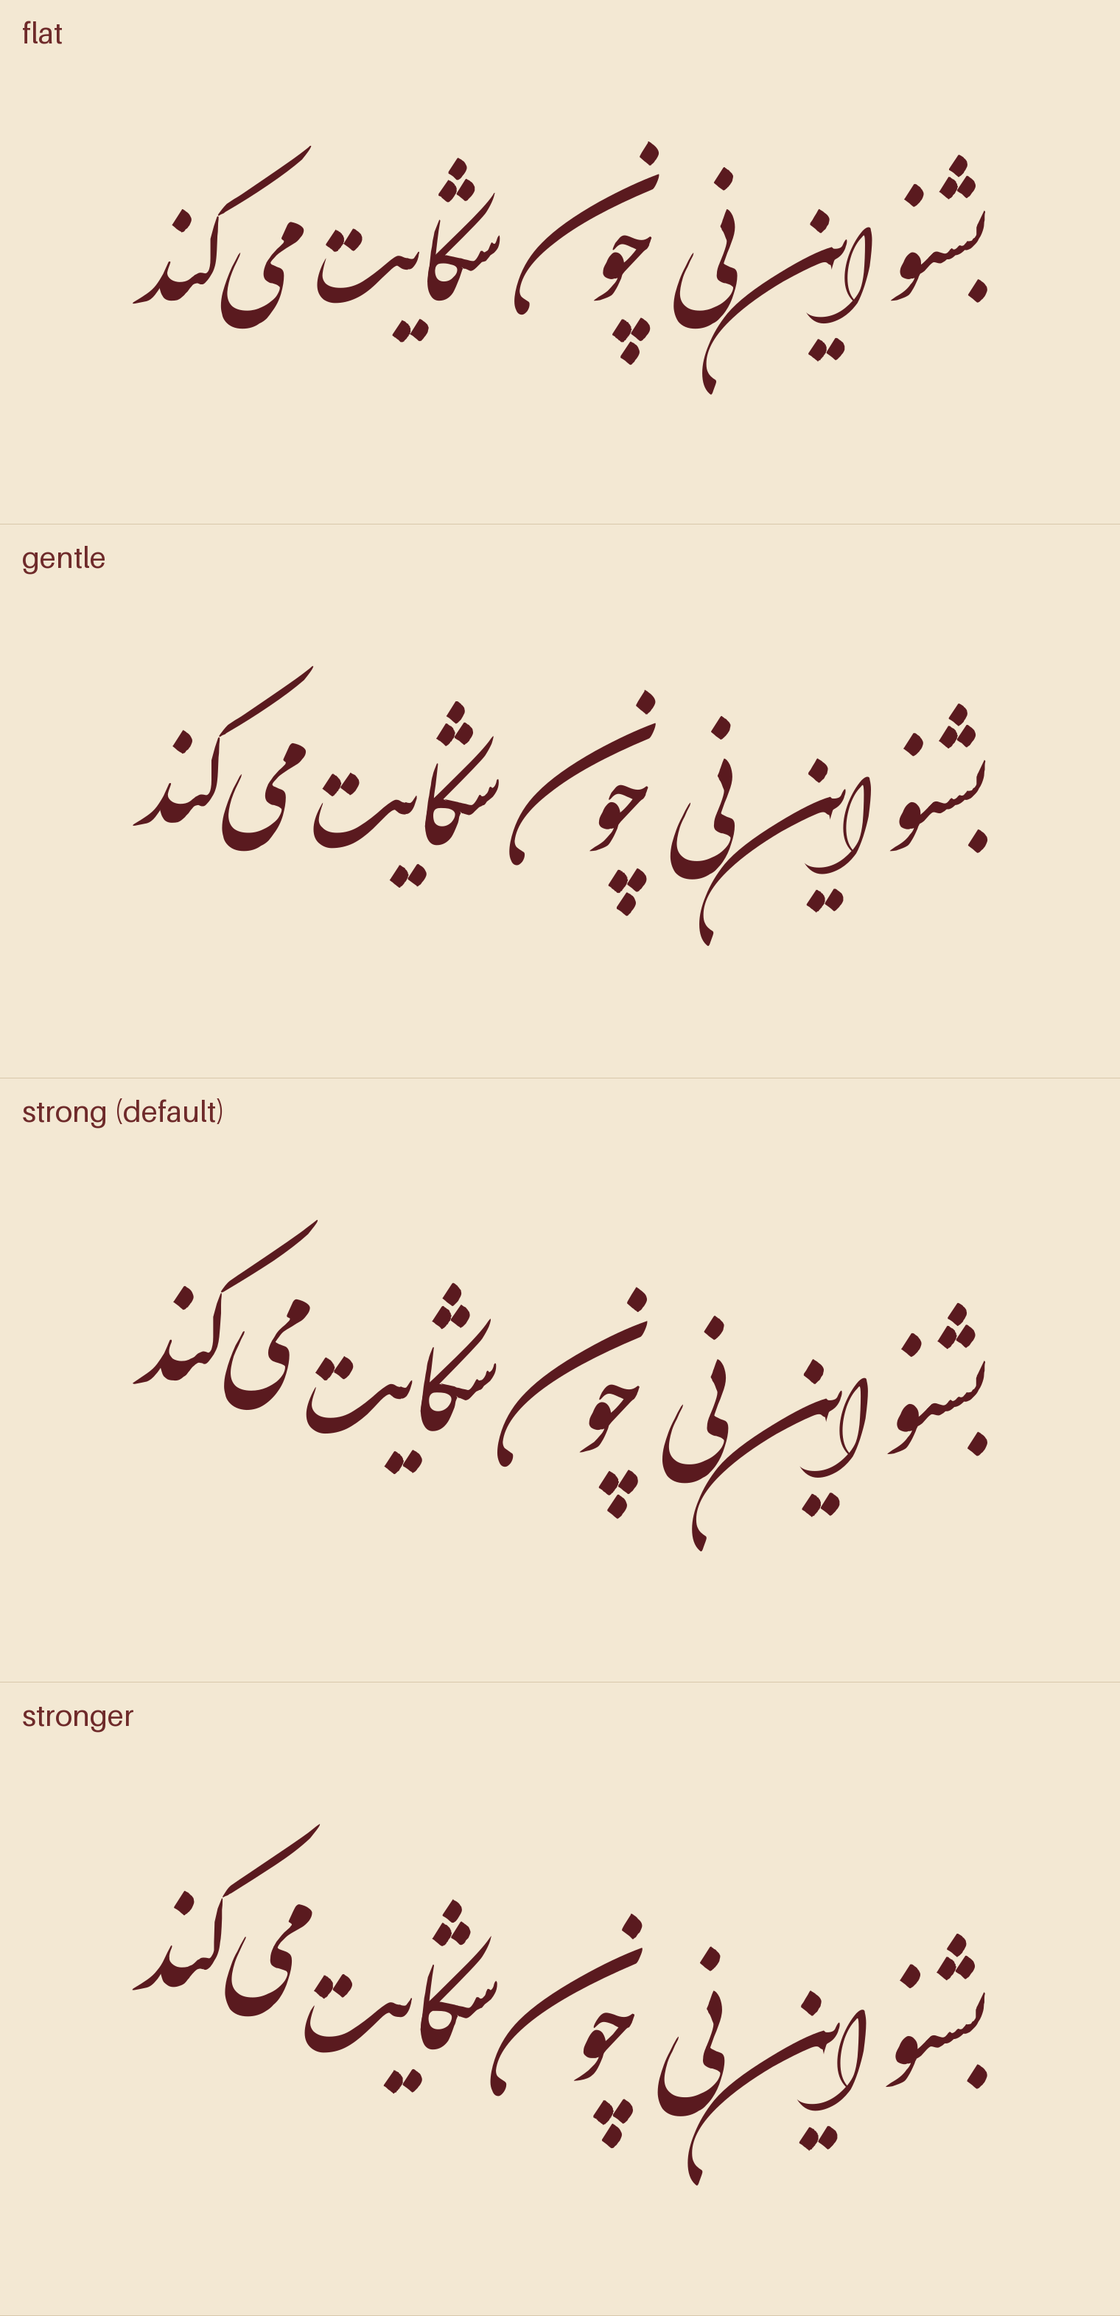
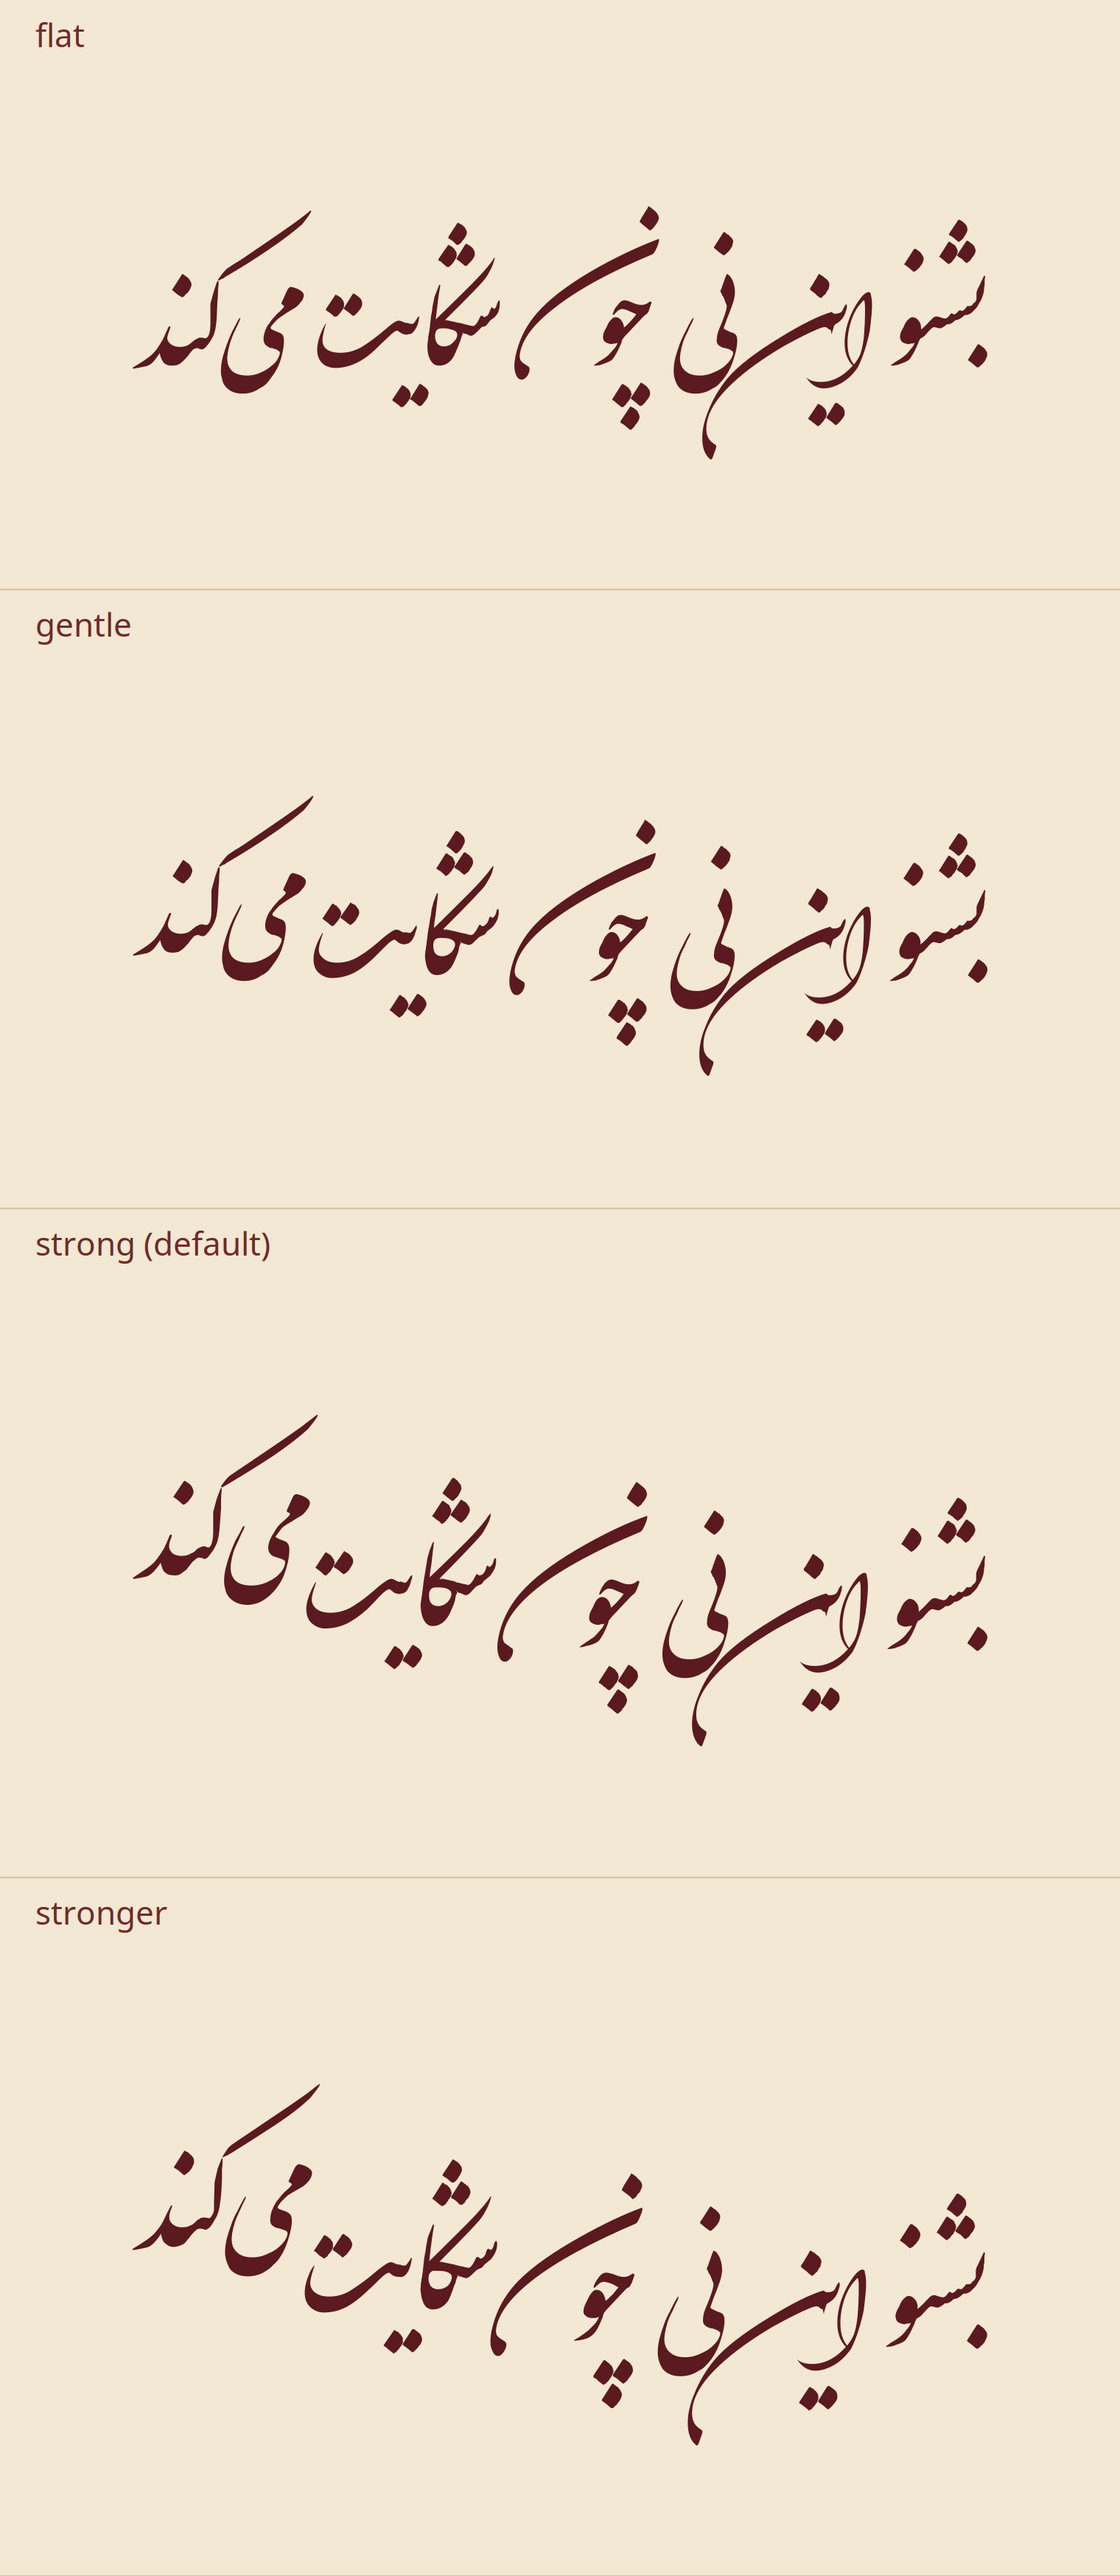
Record every sample's command; add make_samples.py with --check
The exact text and options of each sample now live in the repo, so anyone
can rebuild samples/ and use --check as a regression test after changing
render.py. All six samples (and dark PNGs) reproduce byte-for-byte; the
rise-presets sheet is now built from the current renderer too.

diff --git a/scripts/make_samples.py b/scripts/make_samples.py
@@ -1,0 +1,99 @@
+#!/usr/bin/env python3
+"""Rebuild every image in samples/ from the exact commands recorded below.
+
+    python scripts/make_samples.py           # rewrite samples/*.svg and *.png
+    python scripts/make_samples.py --check   # render to a temp dir, compare with samples/
+
+--check is the regression test for any change to render.py: when you fix one reported
+issue, every sample that should not change must come out byte-identical. If one differs,
+look at the changed region (before/after crops) before accepting it.
+"""
+import argparse
+import re
+import signal
+import subprocess
+import sys
+import tempfile
+from pathlib import Path
+
+ROOT = Path(__file__).resolve().parent.parent
+RENDER = ROOT / 'scripts' / 'render.py'
+OUT = ROOT / 'samples'
+STEP_TIMEOUT = 300          # seconds per render
+TOTAL_TIMEOUT = 1800        # seconds for the whole run
+
+RUMI = ["بشنو این نی چون شکایت میکند", "از جداییها حکایت میکند"]
+SAADI = ["بنی آدم اعضای یکدیگرند", "که در آفرینش ز یک گوهرند"]
+
+# name -> (render.py arguments, also write a dark-mode PNG)
+SAMPLES = {
+    'hafez-nastaliq': (['--style', 'nastaliq', 'الا یا ایها الساقی ادر کأسا و ناولها',
+                        'که عشق آسان نمود اول ولی افتاد مشکلها', '--author', 'حافظ'], False),
+    'saadi-nastaliq': (['--style', 'nastaliq', *SAADI, '--author', 'سعدی'], True),
+    'rumi-shekasteh': (['--style', 'shekasteh', *RUMI, '--author', 'مولانا'], True),
+    'bismillah-tashkil-nastaliq': (['--style', 'nastaliq', 'بِسمِ الله الرَّحمن الرَّحیـم'], False),
+    'rumi-mashq-shekasteh': (['--style', 'shekasteh', '--mashq', *RUMI,
+                              'کز نیستان تا مرا ببریدهاند', 'در نفیرم مرد و زن نالیدهاند',
+                              '--author', 'مولانا'], False),
+    'saadi-mashq-nastaliq': (['--style', 'nastaliq', '--mashq', *SAADI, '--author', 'سعدی'], False),
+}
+
+# Shekasteh rise presets, stacked with labels into one image
+RISE_PRESETS = [('flat', 'flat'), ('gentle', 'gentle'), ('strong', 'strong (default)'), ('stronger', 'stronger')]
+
+
+def render(args, svg, png=None, dark=False):
+    cmd = [sys.executable, str(RENDER), *args, '-o', str(svg), '--timeout', str(STEP_TIMEOUT)]
+    if png:
+        cmd += ['--png', str(png)] + (['--dark'] if dark else [])
+    subprocess.run(cmd, check=True, timeout=STEP_TIMEOUT + 30, stdout=subprocess.DEVNULL)
+
+
+def rise_sheet(tmp):
+    """One SVG: each preset's render nested at full width under a small label."""
+    parts, y = [], 0
+    for preset, label in RISE_PRESETS:
+        f = tmp / f'rise-{preset}.svg'
+        render(['--style', 'shekasteh', '--rise', preset, RUMI[0]], f)
+        src = f.read_text(encoding='utf-8')
+        h = float(re.search(r'viewBox="0 0 380 ([\d.]+)"', src).group(1))
+        inner = re.sub(r'^<svg [^>]*>', f'<svg x="0" y="{y + 22}" width="380" height="{h}" viewBox="0 0 380 {h}">', src)
+        parts.append(f'<text x="12" y="{y + 16}" font-family="sans-serif" font-size="11" fill="#6e2a2a">{label}</text>')
+        parts.append(inner)
+        y += h + 22
+        parts.append(f'<line x1="0" x2="380" y1="{y}" y2="{y}" stroke="#d9c7a7" stroke-width="0.6"/>')
+    return (f'<svg xmlns="http://www.w3.org/2000/svg" width="760" height="{2 * y:.0f}" viewBox="0 0 380 {y:.0f}">'
+            f'<rect width="380" height="{y:.0f}" fill="#f3e8d3"/>' + ''.join(parts) + '</svg>')
+
+
+def main():
+    ap = argparse.ArgumentParser(description=__doc__, formatter_class=argparse.RawDescriptionHelpFormatter)
+    ap.add_argument('--check', action='store_true', help='compare fresh renders with samples/ instead of writing')
+    a = ap.parse_args()
+    signal.signal(signal.SIGALRM, lambda *_: sys.exit(f'timed out after {TOTAL_TIMEOUT}s'))
+    signal.alarm(TOTAL_TIMEOUT)
+
+    with tempfile.TemporaryDirectory() as t:
+        tmp = Path(t)
+        if a.check:
+            changed = []
+            for name, (args, _) in SAMPLES.items():
+                render(args, tmp / f'{name}.svg')
+                same = (tmp / f'{name}.svg').read_bytes() == (OUT / f'{name}.svg').read_bytes()
+                print(f"{'identical' if same else 'CHANGED  '}  {name}.svg")
+                changed += [] if same else [name]
+            sys.exit(1 if changed else 0)
+
+        import cairosvg
+        for name, (args, dark) in SAMPLES.items():
+            render(args, OUT / f'{name}.svg', OUT / f'{name}.png')
+            if dark:
+                render(args, tmp / 'dark.svg', OUT / f'{name}-dark.png', dark=True)
+            print(f'wrote {name}')
+        cairosvg.svg2png(bytestring=rise_sheet(tmp).encode(), write_to=str(OUT / 'rise-presets.png'),
+                         output_width=1520)
+        print('wrote rise-presets')
+
+
+if __name__ == '__main__':
+    main()

diff --git a/SKILL.md b/SKILL.md
@@ -149,6 +149,7 @@ Both fonts draw dots and marks (madda, hamza) inside each letter's glyph, so a n
 
 - Look at the PNG preview (`--png`). Check that no dot or mark touches another letter, every madda and hamza shows as its own shape, no ink touches another line, the stagger reads clearly, Nastaliq misra' are equal, the Shekasteh line end rises smoothly, gaps look even, and the signature reads visibly smaller than the body.
 - Check each word with a madda or hamza at 3× zoom. A mark lying on a swash reads as a thick blob, not as a collision.
+- **When changing the script** (fixing a reported issue, tuning a rule): fix only that issue, then run `python scripts/make_samples.py --check`. Every sample you did not mean to change must come out byte-identical; for each one that differs, look at before/after crops of the changed region. Tuning a rule for one word has silently moved dots in other words before. Prefer a page-level pass that checks all ink over a per-word rule.
 - Read the script's report: is the keshideh word sensible, and is every moved dot one that was really crowded? Compare before and after at normal size. If you can't see the difference, the fix is aimed at the wrong piece.
 - When the user is choosing between looks, build numbered variants, send a numbered side-by-side image plus each SVG, and keep the numbering going across rounds.
 

diff --git a/README.md b/README.md
@@ -83,6 +83,19 @@ Each run prints what it did:
 | `--png FILE` `--dark` | PNG preview (light or dark) |
 | `--timeout SECONDS` | hard time limit (default 300) |
 
+### Reproducing the samples
+
+Every image in `samples/` is built by [`scripts/make_samples.py`](scripts/make_samples.py), which
+records the exact text and options of each one:
+
+```bash
+python scripts/make_samples.py           # rebuild samples/
+python scripts/make_samples.py --check   # regression test: fresh renders vs samples/
+```
+
+After changing `render.py`, run `--check`. Only the samples you meant to change may differ; for
+each one that does, compare before/after crops of the changed region before accepting it.
+
 If you type a tatweel (ـ) yourself, the renderer uses your keshideh and skips the automatic one.
 
 ## Using it as a skill
